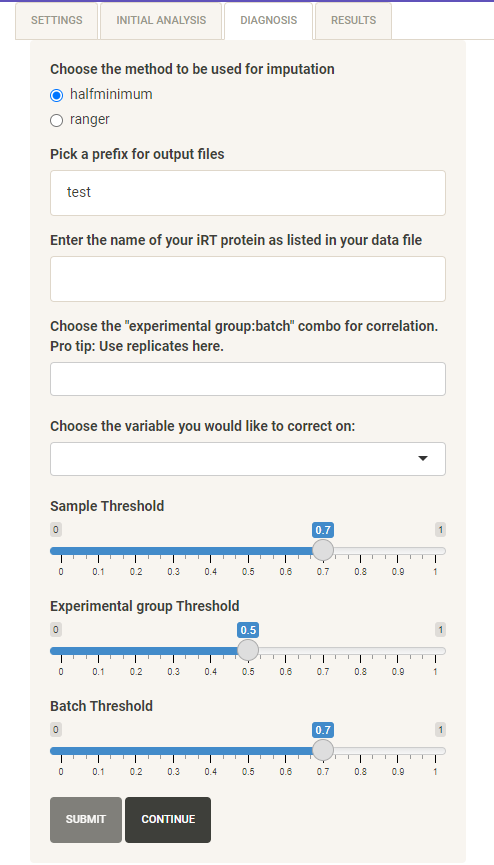
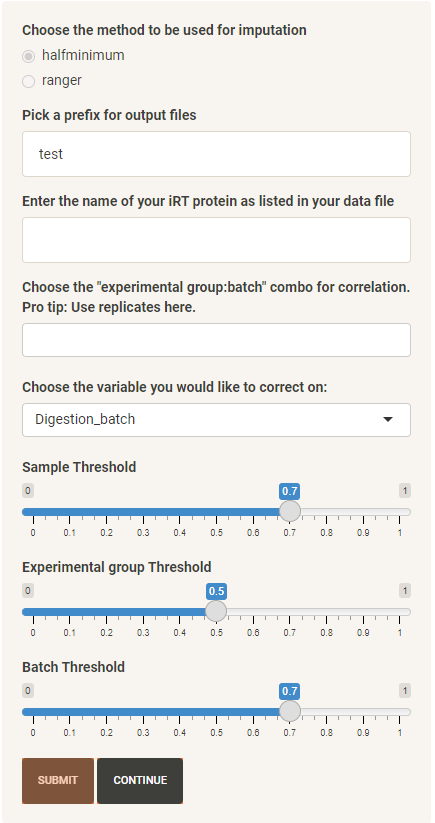
updated app images

Changed region(s): [[0.0299, 0.0, 0.9563, 1.0], [0.8966, 0.5164, 0.9264, 0.5468], [0.8966, 0.4253, 0.9264, 0.4557]]

diff --git a/README.md b/README.md
@@ -18,7 +18,7 @@
 - Input files with protein intensitites and an annotation file (explained in detail in the next section). 
 
 ## Example usage
-Please refer to our example [example](example/) for a more detailed and hands-on walkthrough on how to use BIRCH.
+Please refer to our [example](example/) for a more detailed and hands-on walkthrough on how to use BIRCH.
 
 ## Using BIRCH
 The general workflow is as follows:
@@ -27,12 +27,15 @@ The general workflow is as follows:
 
 Below we list each tab with a description of it includes. For details on the results generated and to understand how to use the plots/analysis, please refer to the example usage above. 
 
+### Home tab
+When the BIRCH web-app initially loads, the home tab is displayed at first. The home tab just contains details on what BIRCH is and the workflow followed in BIRCH to go from data affected by batch-effect to batch-corrected data.  
+
 ### Settings tab
-When the BIRCH web-app initially loads, the settings tab is displayed at first.
+From the home page, the Settings tab can be selected to start the batch-correction process. 
 
 ![BIRCH settings page](Images/settings.PNG)
 
-This tab is dynamic, and you will be asked to upload files and choose input parameters. The left side panel allows you to make your choices, while the right side main panel will display a pre-view of the files you uploaded.  
+This tab is dynamic, and you will be asked to upload files and choose input parameters. Alternatively, you can choose to "Load example data" to initially try out BIRCH and understand its functionality. The left side panel allows you to make your choices, while the right side main panel will display a pre-view of the files you uploaded. 
 
 In this tab, you will have to upload 3 files:
 1. Normalized data 
@@ -51,20 +54,17 @@ Here are some specifications to make sure the input files abide by the requireme
 3. Columns with sample names in the normalized and unnormalized files should match with the sample names in the annotation files. Number of samples in annotation file and intensity data files should be the same. 
 4. Annotation file should have columns corresponding to the different batches you want to analyze (eg. MS batch, Digestion batch, Differentiation batch, etc.), along with the biological experimental group. 
 
-Once the data is uploaded, a preview of the uploaded data will be visible in the main panel and the next Initial analysis and Diagnosis tabs becomes active. 
+Once the data is uploaded, a preview of the uploaded data will be visible in the main panel. All the input parameters are required except for the normalized file (which is optional). If a normalized file is not provided, quantile normalization will be performed and used for further analysis. Once all the required parameters are provided, the "Next" button becomes active, which takes you to the Initial Analysis tab.  
 
 ### Initial analysis tab
-This is a static tab that displays some plots with initial analysis that are generated using the data uploaded in the settings page. This tab in-turn has 3 sub-parts that are characterized as Sample distribution, Missingness and Take-away.  
+This is a static tab that displays some plots with initial analysis that are generated using the data uploaded in the settings page. This tab in-turn has 4 sub-parts that are characterized as Sample distribution, Sample Matrix, Missingness and Take-away.  
 
 ![BIRCH initial analysis page](Images/initial_analysis.PNG)
 
-The sample distribution section displays a plot with the number of samples in each batch (as chosen in the settings tab). The missingness section displays multiple plots that shows how much of the input data is missing/NA, this will also give you an idea of how much data will be imputed in the next step. Lastly, the take-away section gives breif statistics on sample distribution and missingness, which inturn helps with taking a decision on whether the data is suitable for batch correction. 
+The sample distribution section displays a plot with the number of samples in each batch (as chosen in the settings tab). The sample matrix section shows a balloon plot depicting how samples are distributed amongst the columns of interest and experimental group together. The missingness section displays multiple plots that shows how much of the input data is missing/NA, this will also give you an idea on the quantity data that will be imputed in the next step. Lastly, the take-away section displays breif statistics on sample distribution and missingness, which inturn helps with taking a decision on whether the data is suitable for batch correction. 
 
-### Diagnosis tab
-The Diagnosis tab is the next dynalic tab where user input is required. In this tab, you will first need to provide 3 parameters:
-1. Imputation method - BIRCH provides two options for imputing missing values. Imputation is required for generating a PVCA and other results that are necessary to draw conclusions on batch-correction. The half-minimum method is faster but not very efficient in terms of results, while ranger takes longer and uses random-forests to impute missing values. 
-2. Prefix for output files -  The final results tab has a section to download results from. Using this option, you can provide a prefix for your downloadable files based on your project specifications. 
-3. iRT protein name - This is an optional field where you can provide the name of your iRT protein. This is make additional plots regarding the iRT protein in the results tab. 
+### Diagnosis+Filtering tab
+The Diagnosis tab is the next dynalic tab where user input is required. In this tab, you will first need to provide 1 parameter, i.e., Imputation method (BIRCH provides two options for imputing missing values. Imputation is required for generating a PVCA and other results that are necessary to draw conclusions on batch-correction. The half-minimum method is faster but not very efficient in terms of results, while ranger takes longer and uses random-forests to impute missing values).
 
 ![BIRCH diagnosis 1](Images/diagnosis_1.PNG)
 
@@ -74,14 +74,18 @@ On hitting the submit button after these options are provided, missing data is i
 
 If your biological group has the most variation to begin with, a note saying batch-correction is not required for your data will be generated. If you still want to batch-correct, select the variable to correct on in the left panel.
 
-Lastly, in addition to the column to correct on, you can choose "experimental group:batch" combination to study correlation in replicates. At this stage you also get 3 options for filtering (scroll bar set to defaults) which include:
-1. Sample threshold - To identify samples with a lot of missingness. Samples that have missingness above the given threshold will be dropped. 
-2. Experimental group threshold - This filter is applied to make sure each experimental/biological group has a certain percentage of intensities that are present. We usually keep a cut-off of 50% for this filter and if any feature/fragment/protein has all experimental groups with over 50% missingness, it will be dropped.
-3. Batch threshold - This is applied to make sure each batch (within variable/column to correct on) has a certain percentage of intensities that are present (non-missing). Features/fragments/proteins having missingness more than the specified threshold will be dropped. 
+Lastly, in addition to the column to correct on, you can choose/input:
+1. Prefix for output files - The final results tab has a section to download results from. Using this option, you can provide a prefix for your downloadable files based on your project specifications. 
+2. iRT protein name (optional) - This is an optional field where you can provide the name of your iRT protein. This is make additional plots regarding the iRT protein in the results tab. 
+3. "Experimental group:batch" combination (optional) - to study correlation in replicates. 
+And 3 filtering options (scroll bar set to defaults) that include:
+4. Sample threshold - To identify samples with a lot of missingness. Samples that have missingness above the given threshold will be dropped. 
+5. Experimental group threshold - This filter is applied to make sure each experimental/biological group has a certain percentage of intensities that are present. We usually keep a cut-off of 50% for this filter and if any feature/fragment/protein has all experimental groups with over 50% missingness, it will be dropped.
+6. Batch threshold - This is applied to make sure each batch (within variable/column to correct on) has a certain percentage of intensities that are present (non-missing). Features/fragments/proteins having missingness more than the specified threshold will be dropped. 
 
-As a note: If all thresholds are set to 1.0 (i.e., you don't want to filter anything), we will carry out minimal filtering by default (at least 2 non-missing intensities per batch). 
+As a note: If all filtering thresholds are set to 1.0 (i.e., you don't want to filter anything), we will carry out minimal filtering by default (at least 2 non-missing intensities per batch). 
 
-On hitting continue, a few plots will be displayed in the main tab that show how the filtering criteria chosen by you will affect the data and what will be filtered out. Simultaneously, the results tab becomes active. 
+On hitting continue, a few plots will be displayed in the main tab that show how the filtering criteria chosen by you will affect the data and what will be filtered out. Simultaneously, the Results tab becomes active and you can click on "Go to Results" button to navigate to the final Results tab. 
 
 ### Results tab
 The results tab is the final tab that is static and is loaded with all the final results, including plots created using filtered data, results comparing nomalized and unnormalized files, and other batch-correction related results. The sub-sections within the results tab are as shown in the below image. 
